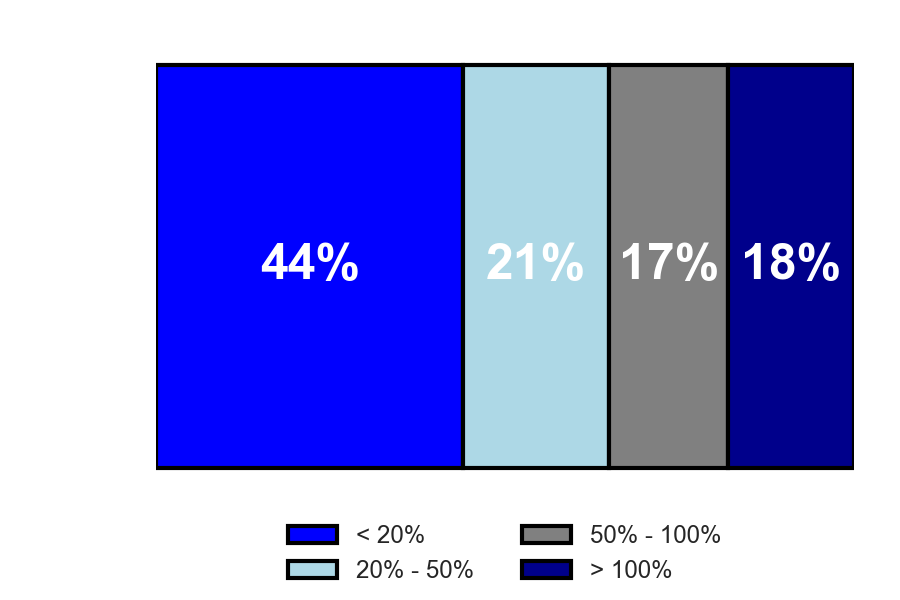
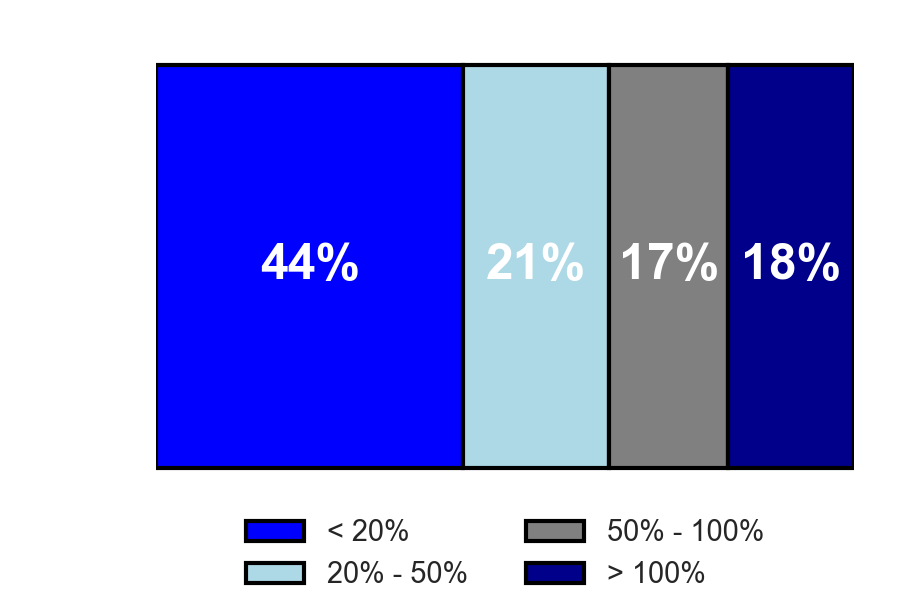
Increased legend text size for s3 vol plot

Changed region(s): [[0.2489, 0.84, 0.5289, 0.99], [0.56, 0.84, 0.84, 0.99]]

diff --git a/scripts/charts.py b/scripts/charts.py
@@ -102,6 +102,6 @@ plt.xlim(0, 100)
 plot_remove_labels(ax)
 plt.xticks([])
 plt.yticks([])
-plt.legend(loc='center', bbox_to_anchor=(0.5, -0.15), ncol=2, frameon=False, fontsize='xx-small')
+plt.legend(loc='center', bbox_to_anchor=(0.5, -0.15), ncol=2, frameon=False, fontsize='x-small')
 fig.savefig(os.path.join(figure_path, 's3_2021_vol.png'), dpi=dpi)
 plt.close()
